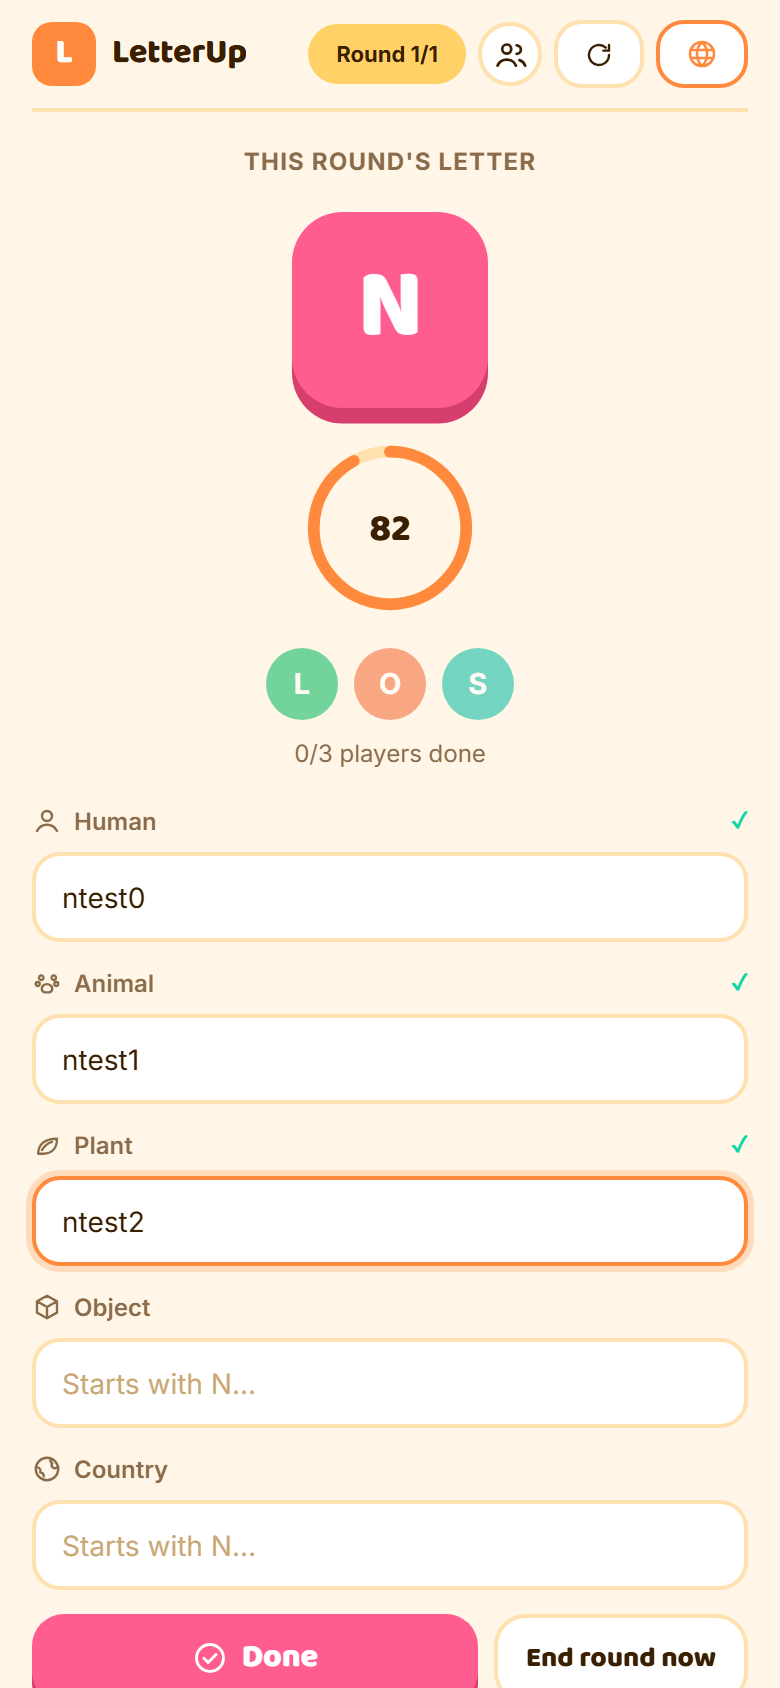
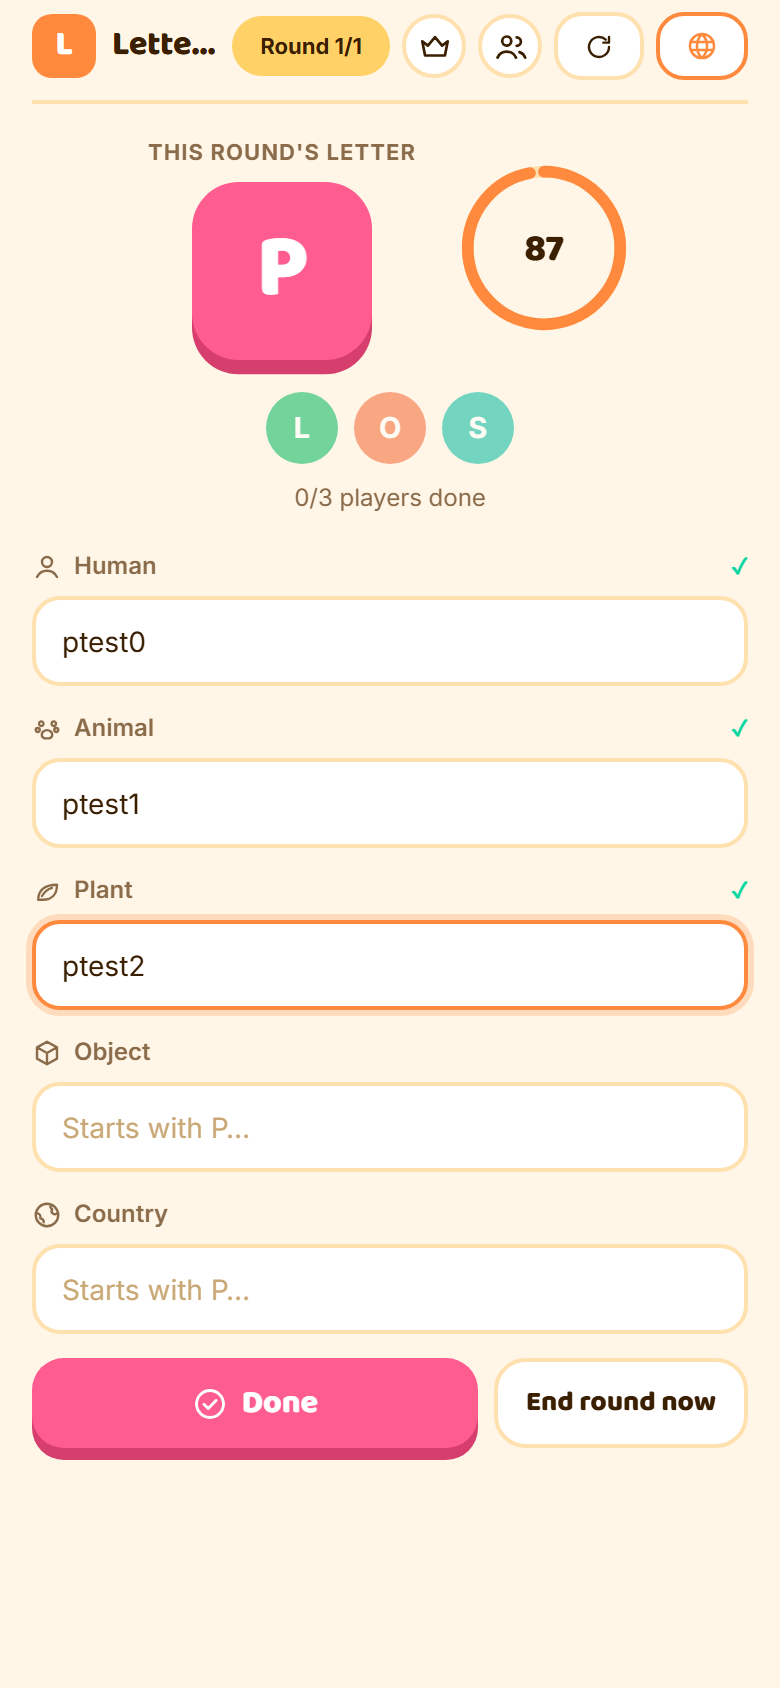
Fit the round screen on a phone with the keyboard open
The letter tile and timer now sit side by side instead of stacked, which
lifts all answer fields above the keyboard, and focusing a field scrolls
it into view. The app name is hidden below 430px so the header controls
stop squeezing it into "Lette...".

diff --git a/src/components/RoundPlay.tsx b/src/components/RoundPlay.tsx
@@ -94,9 +94,15 @@ export function RoundPlay() {
 
   return (
     <div className="animate-rise flex flex-col items-center gap-4">
-      <p className="text-[12px] font-bold tracking-wider text-muted uppercase">{t("play.letterIs")}</p>
-      <LetterTile letter={round.letter} size={100} />
-      <TimerRing remainingMs={round.endsAt - now} totalMs={round.endsAt - round.startedAt} />
+      {/* Letter and timer sit side by side: on a phone with the keyboard open,
+          stacking them pushed the answer fields off screen. */}
+      <div className="flex w-full items-center justify-center gap-5">
+        <div className="flex flex-col items-center gap-1.5">
+          <p className="text-[11px] font-bold tracking-wider text-muted uppercase">{t("play.letterIs")}</p>
+          <LetterTile letter={round.letter} size={92} />
+        </div>
+        <TimerRing remainingMs={round.endsAt - now} totalMs={round.endsAt - round.startedAt} />
+      </div>
 
       <div className="flex flex-wrap justify-center gap-2">
         {activePlayers.map((p) => {
@@ -159,6 +165,11 @@ export function RoundPlay() {
                 placeholder={t("play.placeholder", { letter: round.letter })}
                 value={value}
                 disabled={locked}
+                // Mobile keyboards cover the lower half of the screen; keep the focused field visible.
+                onFocus={(e) => {
+                  const field = e.currentTarget;
+                  setTimeout(() => field.scrollIntoView({ block: "center", behavior: "smooth" }), 250);
+                }}
                 onChange={(e) => setDraft(category, e.target.value)}
                 onKeyDown={(e) => {
                   if (e.key === "Enter" && i < round.categories.length - 1) {

diff --git a/src/components/App.tsx b/src/components/App.tsx
@@ -497,7 +497,7 @@ function GameScreen({
             <span className="headline grid size-8 shrink-0 place-items-center rounded-[10px] bg-orange text-[17px] text-white sm:size-9 sm:text-[19px]">
               L
             </span>
-            <span className="headline truncate text-[17px] sm:text-[19px]">{t("app.short")}</span>
+            <span className="headline hidden truncate text-[17px] min-[430px]:inline sm:text-[19px]">{t("app.short")}</span>
           </button>
           {inGame && (
             <span className="pill text-[11px] whitespace-nowrap sm:text-[12px]" style={{ background: "var(--color-sun)", borderColor: "transparent" }}>
